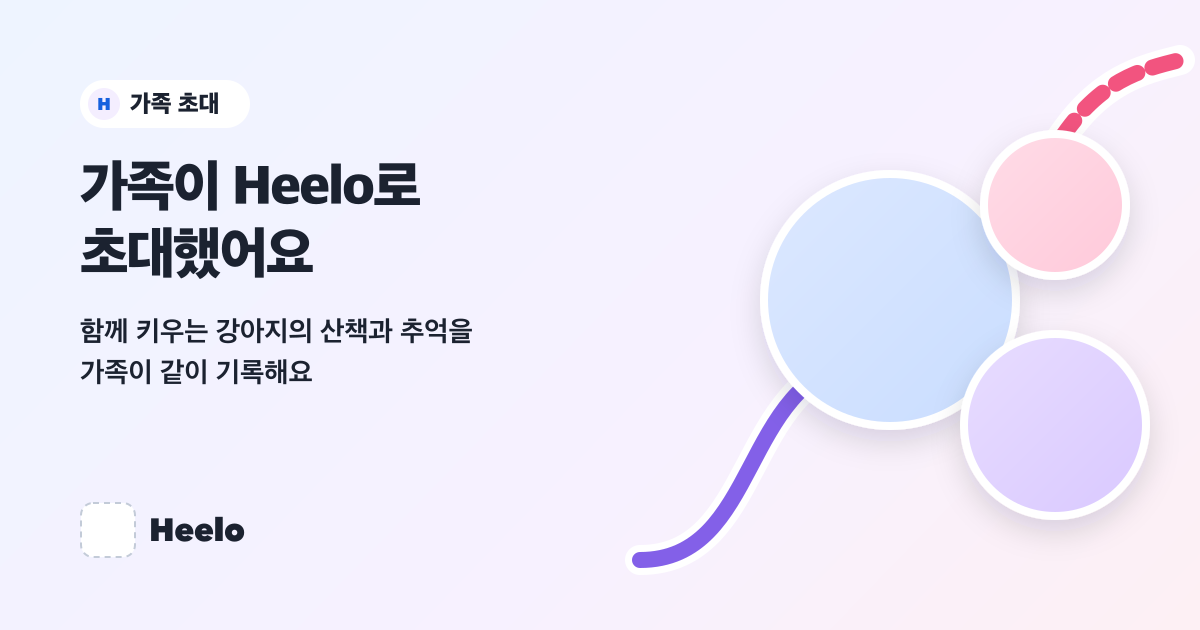
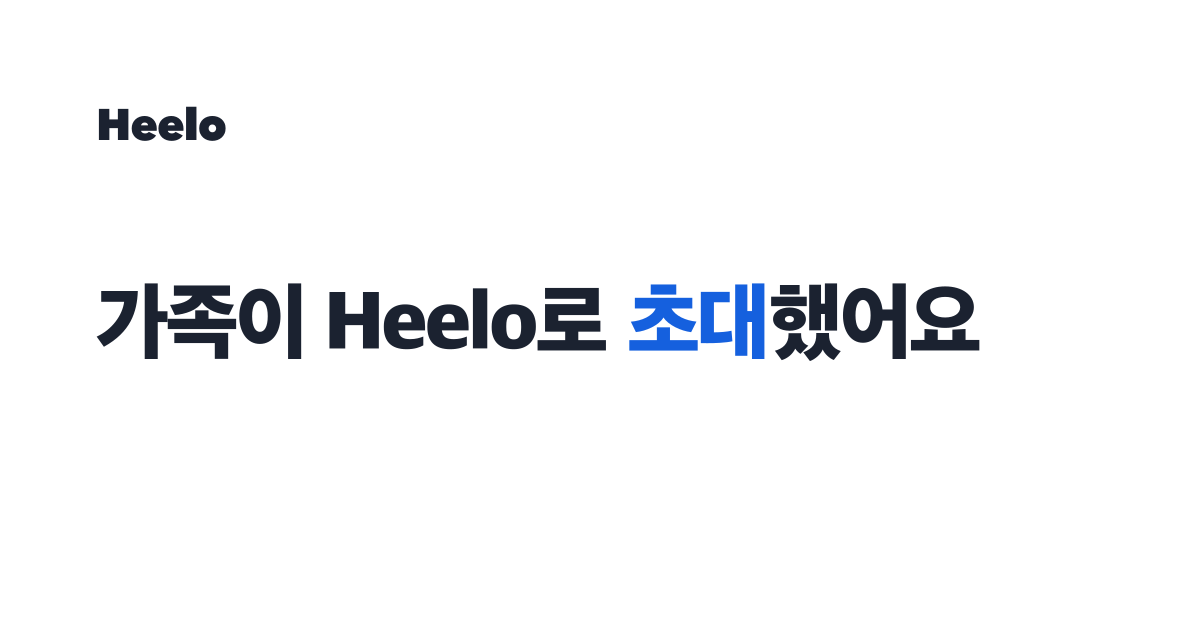
홈 첫 화면 큰 제목·기능 줄(아이콘+굵은 제목+한 줄), 앱 화면 이미지 자리(ScreenShot), 초대 미리보기 이미지 단순화 (방송 #211·#212, 문안 v0.38)

Changed region(s): [[0.0617, 0.0905, 0.9867, 0.9048], [0.0617, 0.1508, 0.37, 0.3317], [0.1233, 0.8143, 0.2158, 0.8746]]

diff --git a/src/styles/global.css b/src/styles/global.css
@@ -68,6 +68,21 @@ th { background: var(--color-surface-inset); }
 .site-footer .biz { display: block; margin: var(--space-3) 0 0; }
 .site-footer .biz li { margin: 0; }
 
+/* 홈: 첫 화면과 기능 줄(아이콘 + 굵은 제목 + 한 줄). 상자·선 없이 여백으로 나눔(방송 #209·#212). */
+.hero { padding-top: var(--space-4); }
+.hero h1 { font-size: clamp(2rem, 9vw, 2.75rem); letter-spacing: -0.04em; line-height: 1.15; margin-top: var(--space-4); }
+.hero > p { font-size: 1.0625rem; color: var(--color-muted); }
+.shot { margin: var(--space-4) 0 0; }
+.shot img { display: block; width: 100%; height: auto; border-radius: var(--radius); }
+.shot-hero { margin-top: var(--space-5); display: flex; justify-content: center; }
+.shot-hero img { max-width: 300px; }
+.features { list-style: none; padding: 0; display: flex; flex-direction: column; gap: var(--space-5); }
+.feature { display: grid; grid-template-columns: 24px 1fr; gap: var(--space-3); margin: 0; }
+.feature-icon { width: 24px; height: 24px; margin-top: 2px; }
+.feature strong { display: block; font-size: 1.0625rem; font-weight: 800; line-height: 1.35; }
+.feature p { margin: 4px 0 0; color: var(--color-muted); font-size: 0.9375rem; line-height: 1.55; }
+.feature .shot img { max-width: 240px; }
+
 /* 가족 초대 페이지(/invite/): 시안 C-14. 색·모서리는 사이트 공통 토큰을 씁니다. */
 .invite { max-width: 440px; margin: 0 auto; display: flex; flex-direction: column; gap: var(--space-4); }
 .invite-card { display: flex; flex-direction: column; gap: var(--space-3); padding: var(--space-4) 0 0; }

diff --git a/docs/CONTENT.md b/docs/CONTENT.md
@@ -1,4 +1,4 @@
-# 홈페이지 문안 (v0.37 · 2026-10-08)
+# 홈페이지 문안 (v0.38 · 2026-10-08)
 
 안내용 홈페이지의 페이지별 문안입니다. 구현은 이 문서를 기준으로 하고, 문안을 임의로 늘리거나 약속을 추가하지 않습니다.
 대괄호 `[ ]`는 자리표시이며, `[서비스명]` 바로 뒤에는 이름에 따라 달라지는 조사(이/가, 은/는, 을/를, 와/과)를 붙이지 않습니다(「에서」「의」처럼 받침과 상관없는 조사만 허용). 전부 `src/config`의 설정값 한 곳에서 채웁니다(목록은 맨 끝).
@@ -79,6 +79,12 @@
 **보조**: iPhone·Android에서 쓸 수 있어요. 만 14세 이상 가입할 수 있어요. (Apple Watch 문장은 12/8 출시에 워치가 없어 뺌, 오너 2026-10-07 방송 #185)
 
 ---
+
+### 앱 화면 이미지 자리 (오너 방송 #212 — 이미지가 와야 채워짐)
+- 첫 화면 1장(`hero`)과 기능 소개 7개 줄 아래 작은 화면 1장씩. 파일은 `public/screens/<이름>.webp`에 두면 코드 수정 없이 보입니다(없으면 안 그림).
+- 이름: `hero`(앱 홈 또는 산책 요약), `feature-walk`(산책 기록), `feature-newroad`(새로운 길), `feature-discover`(장소 발견), `feature-lifemap`(생애지도), `feature-memory`(추억), `feature-family`(가족), `feature-memorial`(추모).
+- 규격 제안: 세로 휴대폰 화면 캡처 780×1688(= 390×844의 2배) PNG 또는 WebP, 상태바 9:41·배터리 가득·알림 없음, **데모 데이터만**(실제 이름·주소·사진·기록 없음, 공개 저장소). 화면은 방향 A(새 디자인) 기준. 사이트에서 WebP로 줄여 씁니다(한 장 100KB 안팎).
+- 마스코트는 총괄이 오너에게 사용 원칙을 제안 중이라 정해지면 첫 화면에 쓸 수 있음.
 
 ## 2. 고객센터 `/support/`
 

diff --git a/HANDOFF.md b/HANDOFF.md
@@ -3,7 +3,7 @@
 ## 1. 방향
 - 기능 없는 **안내 전용 정적 사이트**입니다. 로그인·폼·서버 연결은 없습니다.
 - 앱 없이 하는 탈퇴 요청은 **메일(mailto)** 로만 받습니다. 예전의 웹 로그인 탈퇴 페이지(`/delete/`)는 지웠습니다.
-- 규칙은 `docs/HOMEPAGE_RULES.md`, 문안은 `docs/CONTENT.md`(v0.37)를 따릅니다.
+- 규칙은 `docs/HOMEPAGE_RULES.md`, 문안은 `docs/CONTENT.md`(v0.38)를 따릅니다.
 
 ## 2. 구성
 - Astro 정적 출력, 브라우저 JS 0. 설정은 `src/config/site.mjs` 한 곳에 있습니다.
